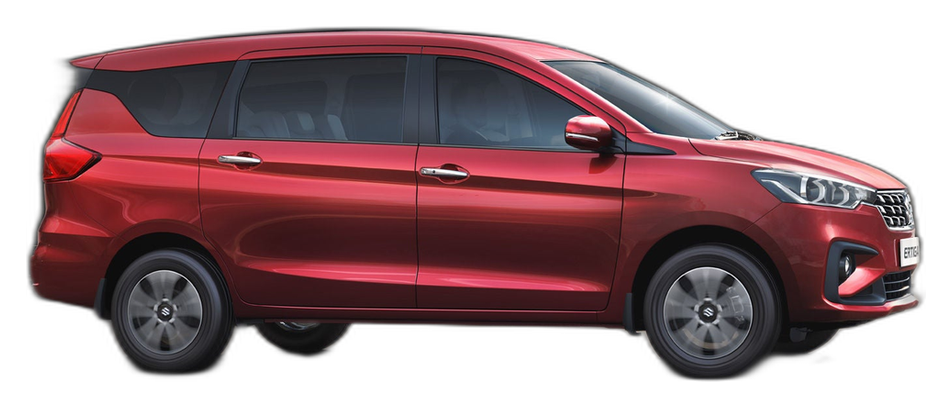
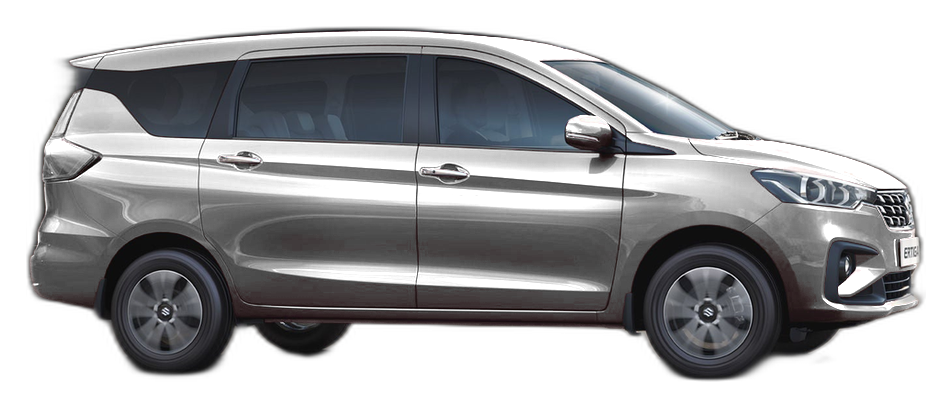
Recolour the two red fleet cars to white
- fleet-sedan-dzire.png and fleet-suv-ertiga.png were red cars; their red
  body pixels are desaturated and lifted to a light/white tone while
  preserving shading, windows, tyres, chrome and shadows
- Cache-bust the two image URLs (?v=4) so the new artwork loads

diff --git a/index.html b/index.html
@@ -1090,7 +1090,7 @@
         <div class="car-item-card" data-category="sedan">
           <div class="car-badge">Bestseller</div>
           <div class="car-visual-box">
-            <img src="images/fleet-sedan-dzire.png" alt="Maruti Dzire / Toyota Etios sedan with chilled AC" class="car-photo-img" loading="lazy" />
+            <img src="images/fleet-sedan-dzire.png?v=4" alt="White Maruti Dzire sedan with chilled AC" class="car-photo-img" loading="lazy" />
           </div>
           <div class="car-body-content">
             <h3 class="car-real-name">Maruti Suzuki Dzire / Toyota Etios</h3>
@@ -1117,7 +1117,7 @@
         <div class="car-item-card" data-category="suv">
           <div class="car-badge">Family Favorite</div>
           <div class="car-visual-box">
-            <img src="images/fleet-suv-ertiga.png" alt="Maruti Ertiga / Kia Carens family SUV with dual AC" class="car-photo-img" loading="lazy" />
+            <img src="images/fleet-suv-ertiga.png?v=4" alt="White Maruti Ertiga family SUV with dual AC" class="car-photo-img" loading="lazy" />
           </div>
           <div class="car-body-content">
             <h3 class="car-real-name">Maruti Ertiga / Kia Carens</h3>
